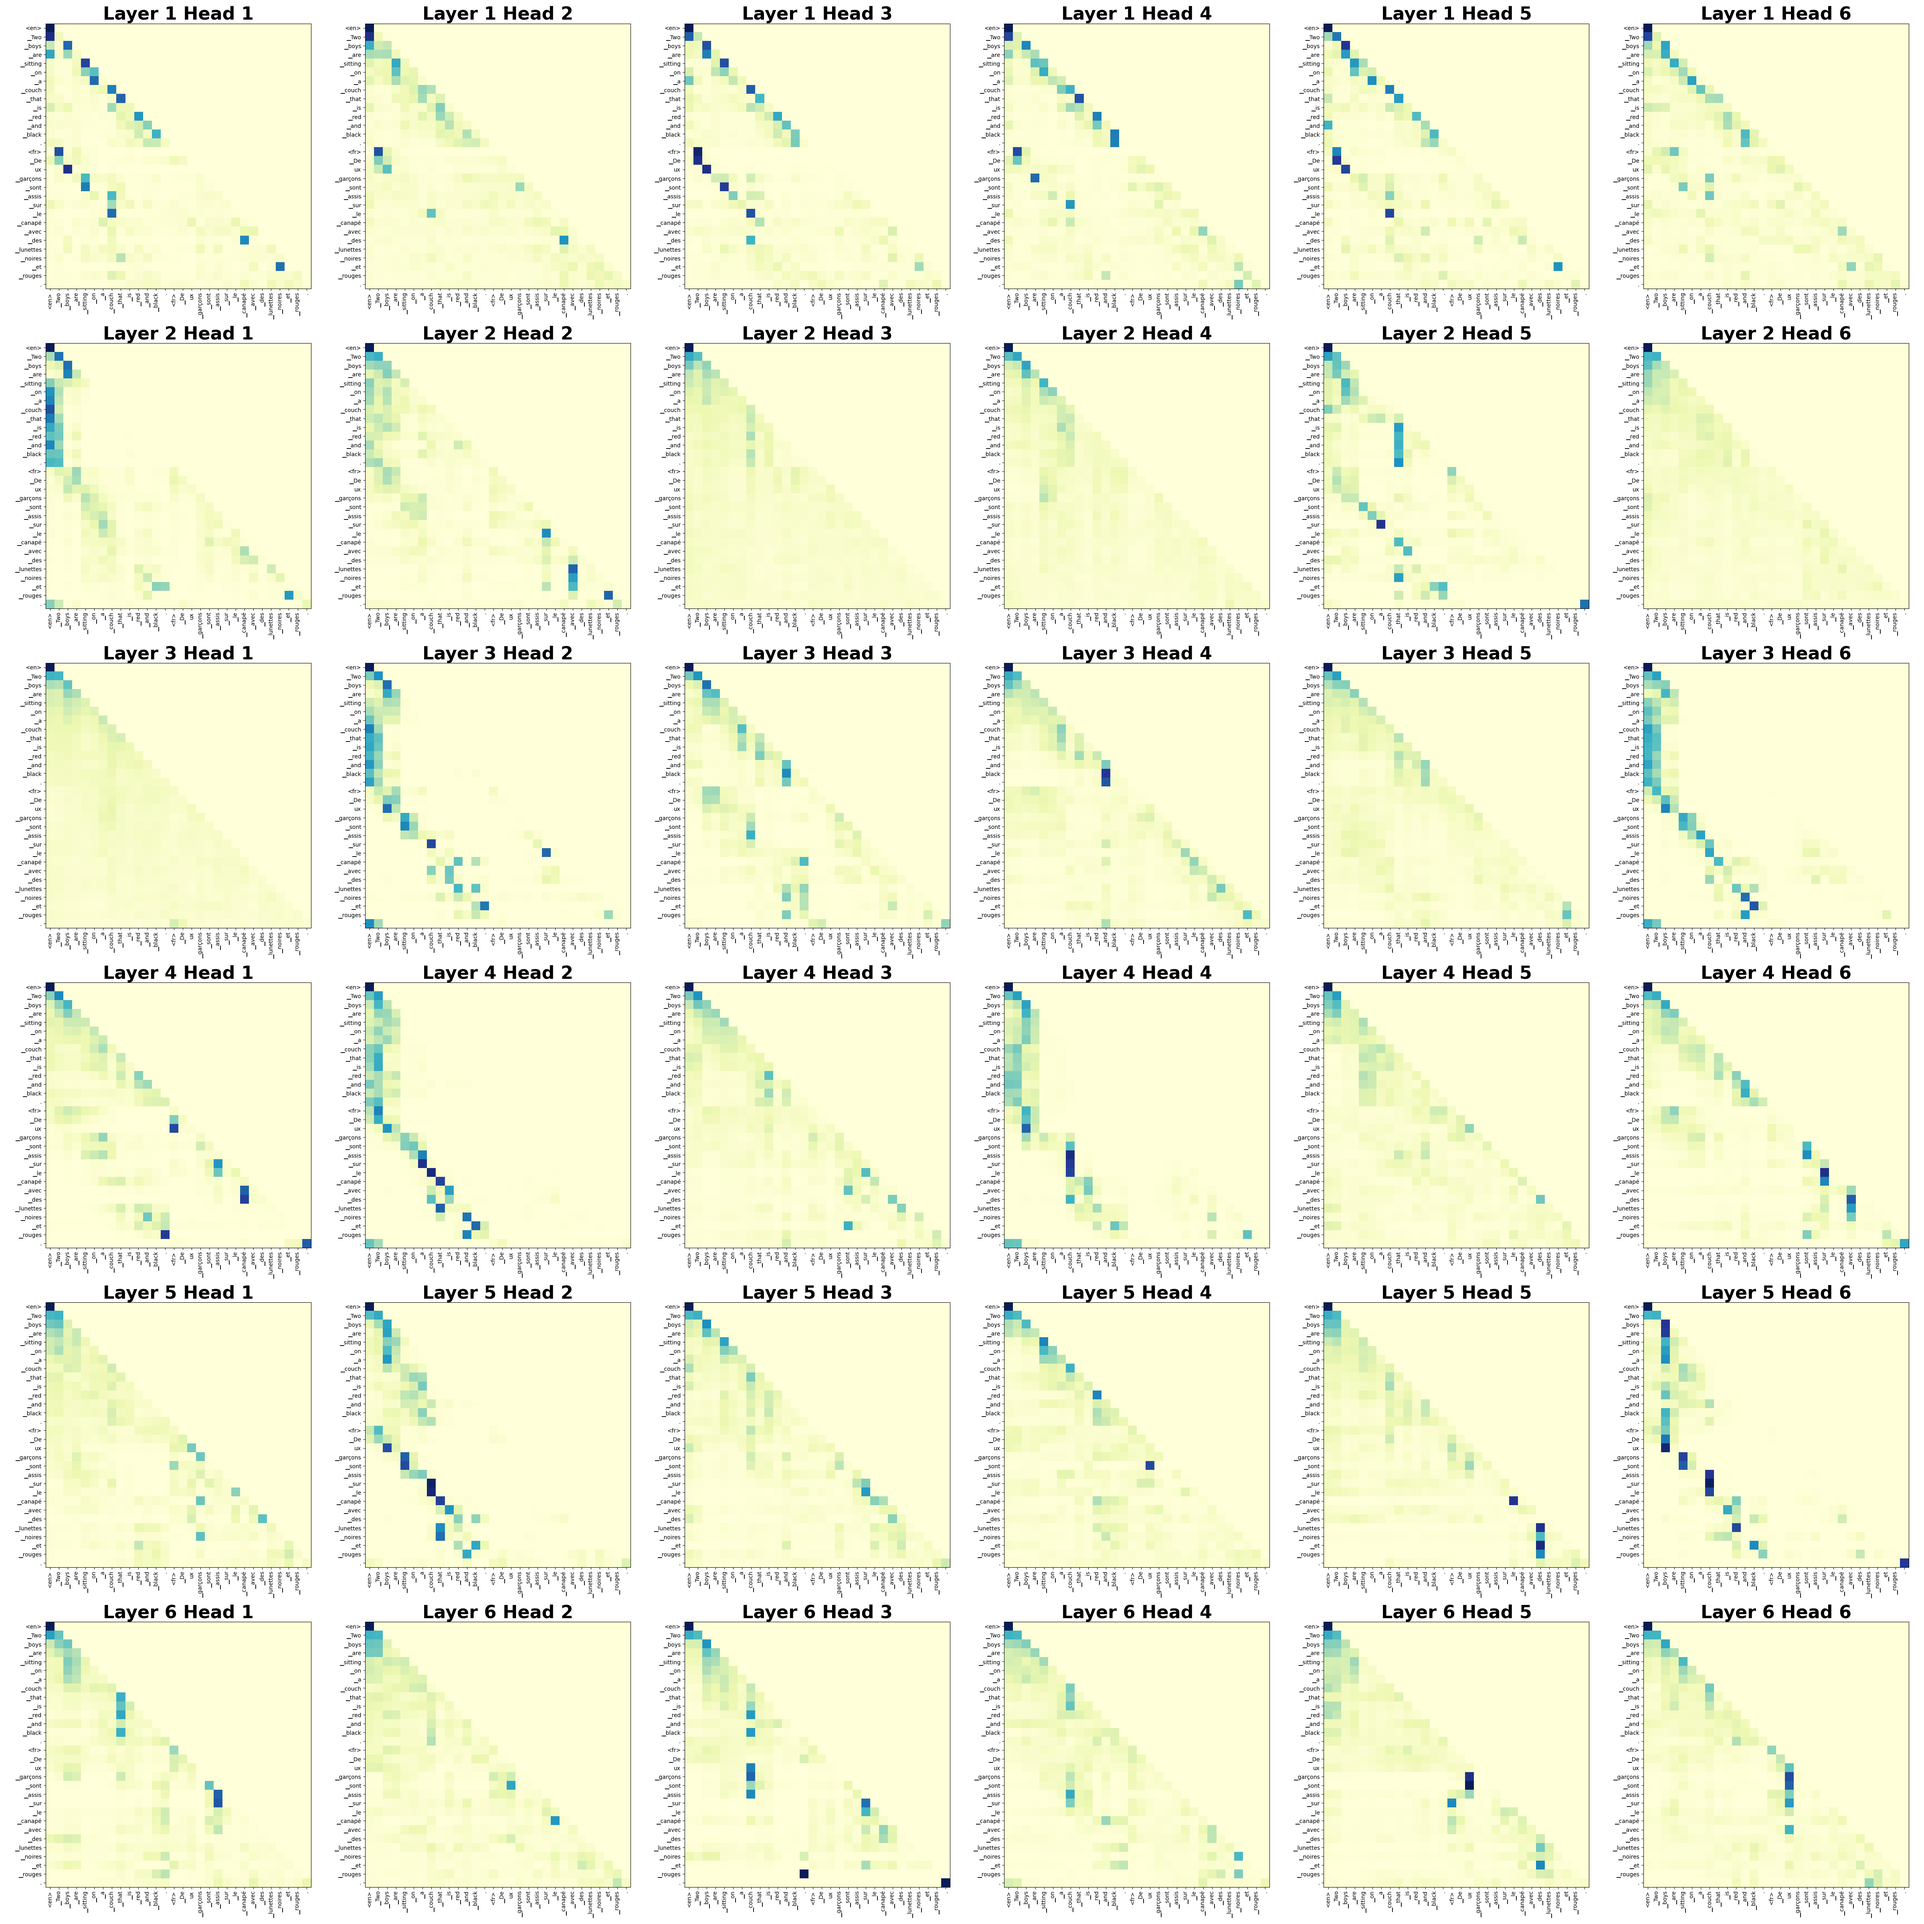
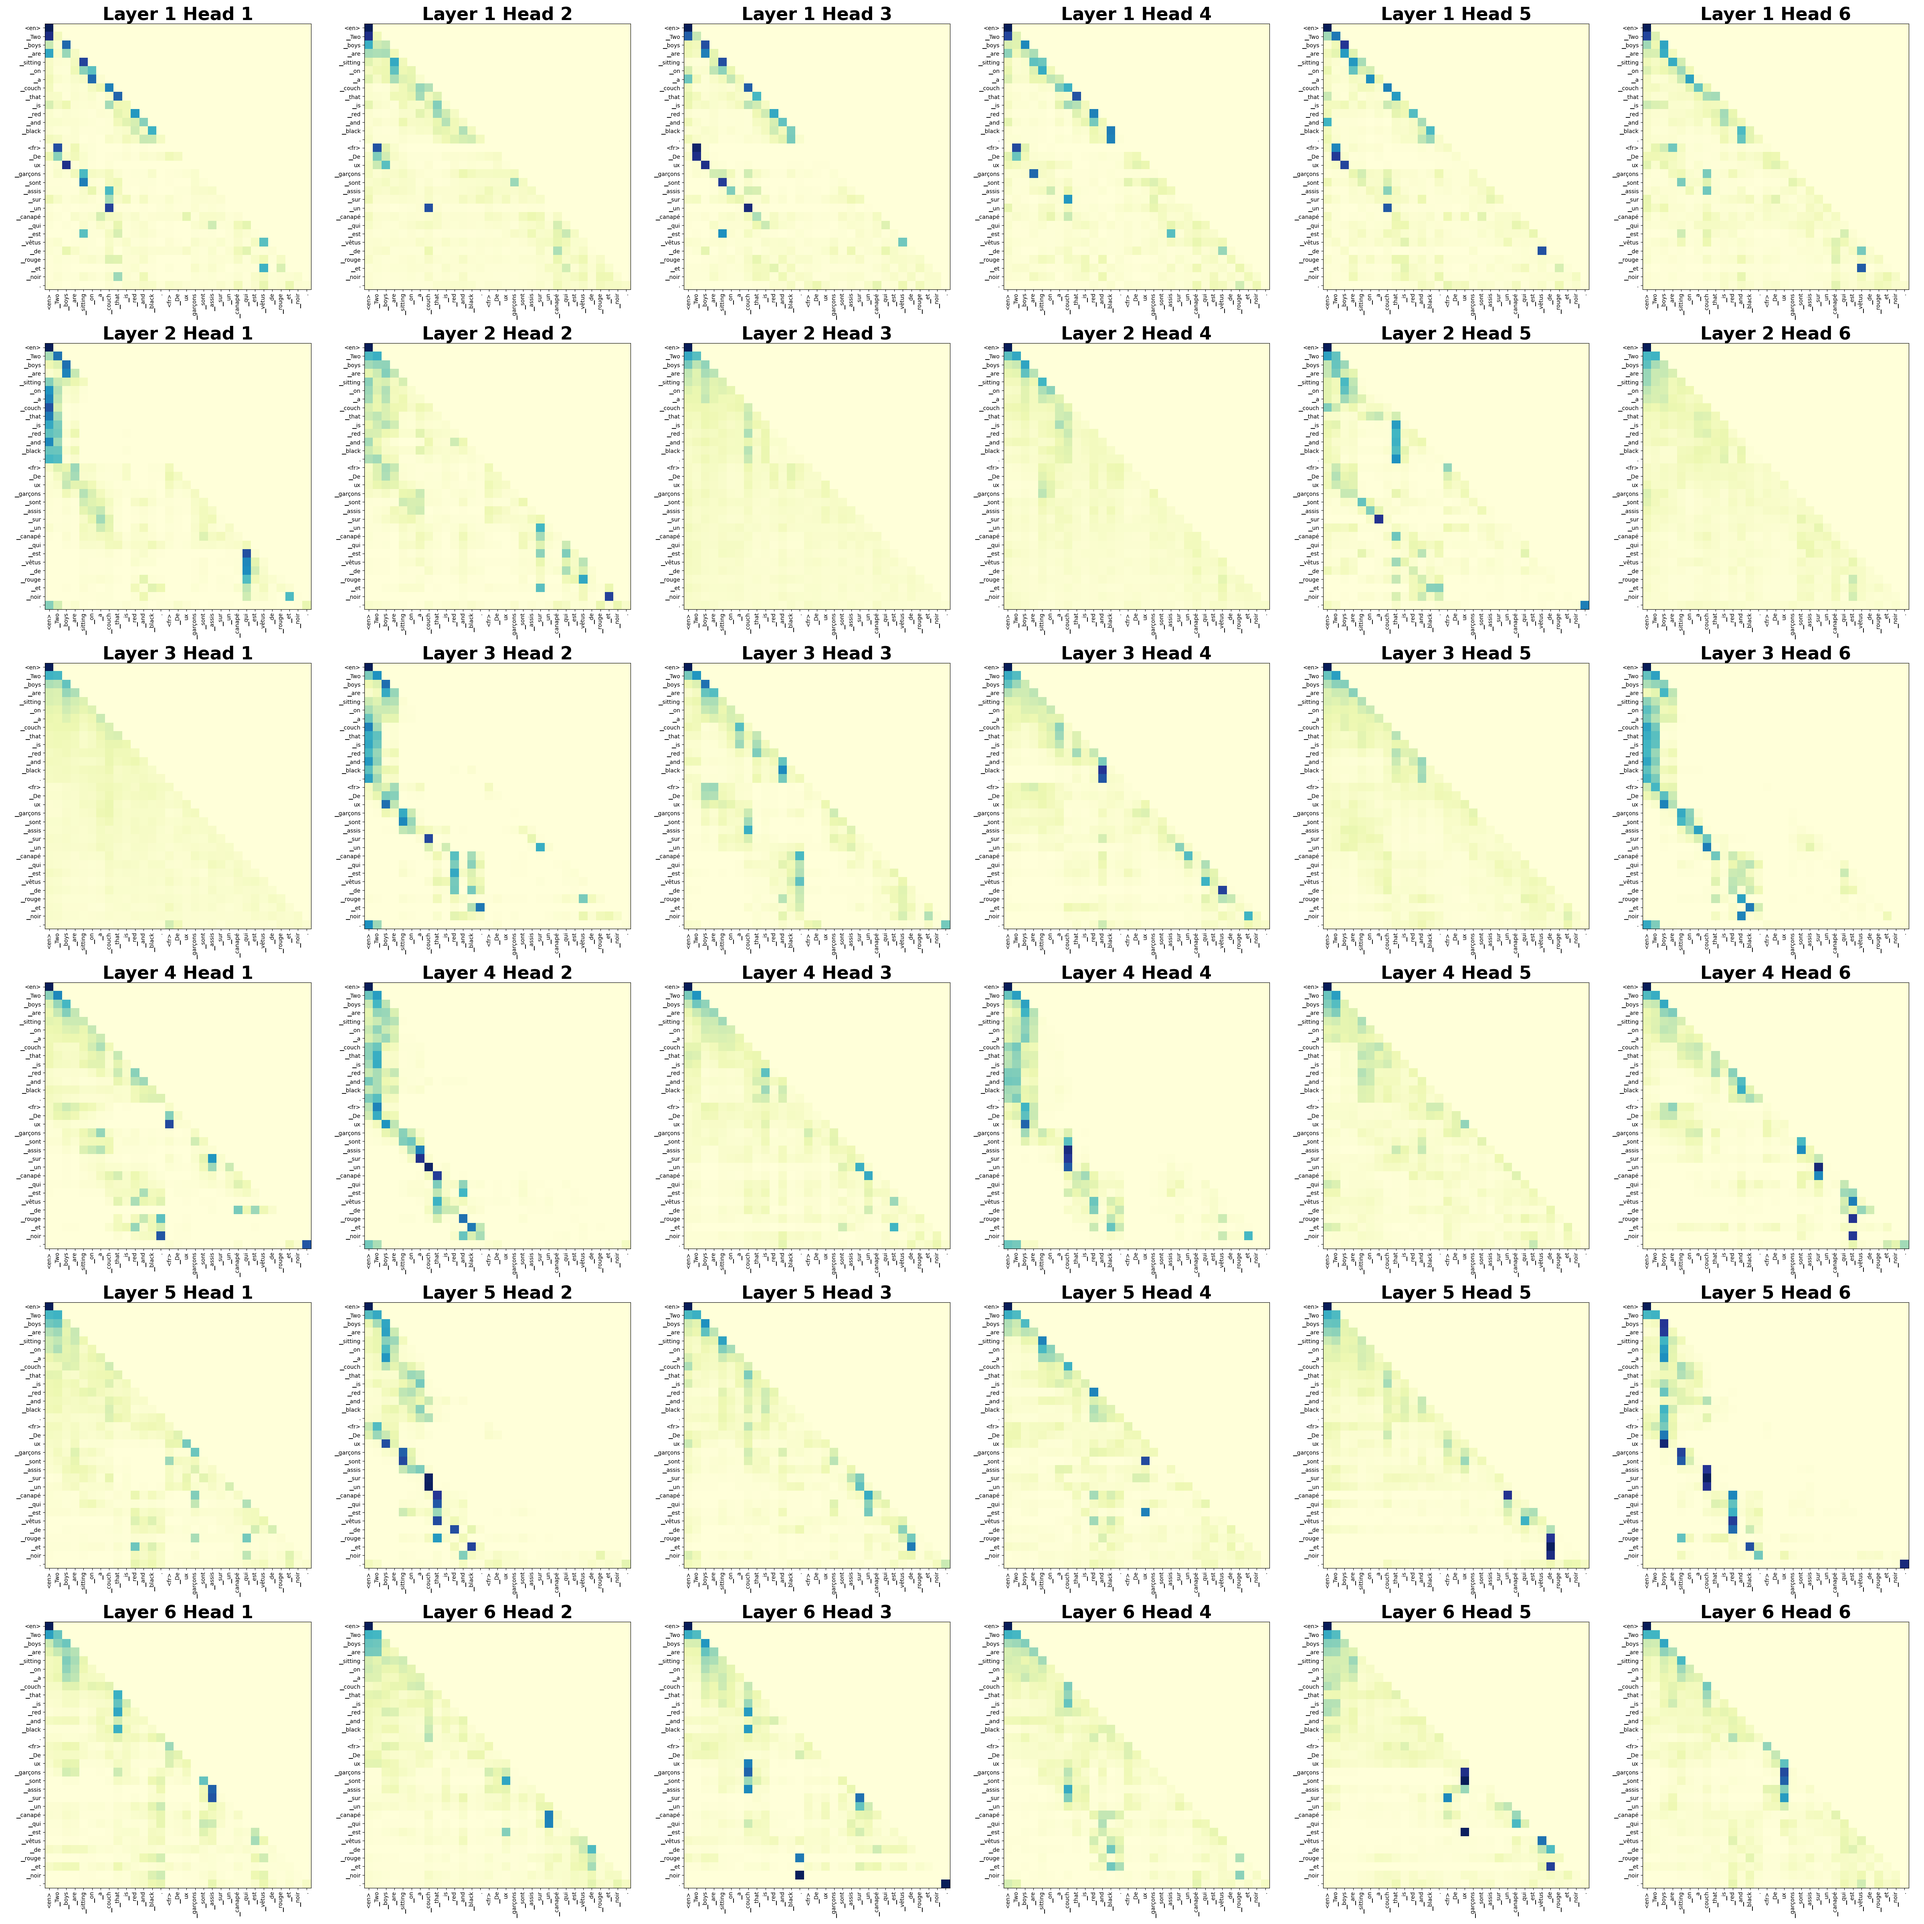
final push

diff --git a/part2/model.py b/part2/model.py
@@ -320,7 +320,7 @@ class GPT(nn.Module):
                 # raise NotImplementedError("Implement sampling in the generate method in model.py (MSc students only)")
                 # 1. If top_k is not None, crop the logits to only the top k options
                 if top_k is not None:
-                    values, indices = torch.topk(logits, top_k, dim=-1)
+                    _, indices = torch.topk(logits, top_k, dim=-1)
                     mask = torch.ones_like(logits, dtype=torch.bool)
                     mask.scatter_(-1, indices, False)
                     logits.masked_fill_(mask, float('-inf'))
@@ -331,14 +331,12 @@ class GPT(nn.Module):
                     sorted_probs, sorted_idx = probs.sort(dim=-1, descending=True)
                     c_p = torch.cumsum(sorted_probs, dim=-1)
 
+                    # Used ChatGPT 5.0 to select only the top-p options and mask the rest.
                     mask = c_p > top_p
                     mask[..., 1:] = mask[..., :-1].clone()
                     mask[..., 0] = False
 
-                    mask = torch.zeros_like(mask).scatter_(
-    -1, sorted_idx, mask
-)
-
+                    mask = torch.zeros_like(mask).scatter_(-1, sorted_idx, mask)
                     logits = logits.masked_fill(mask, float('-inf'))
 
                 # apply softmax to convert logits to (normalized) probabilities
